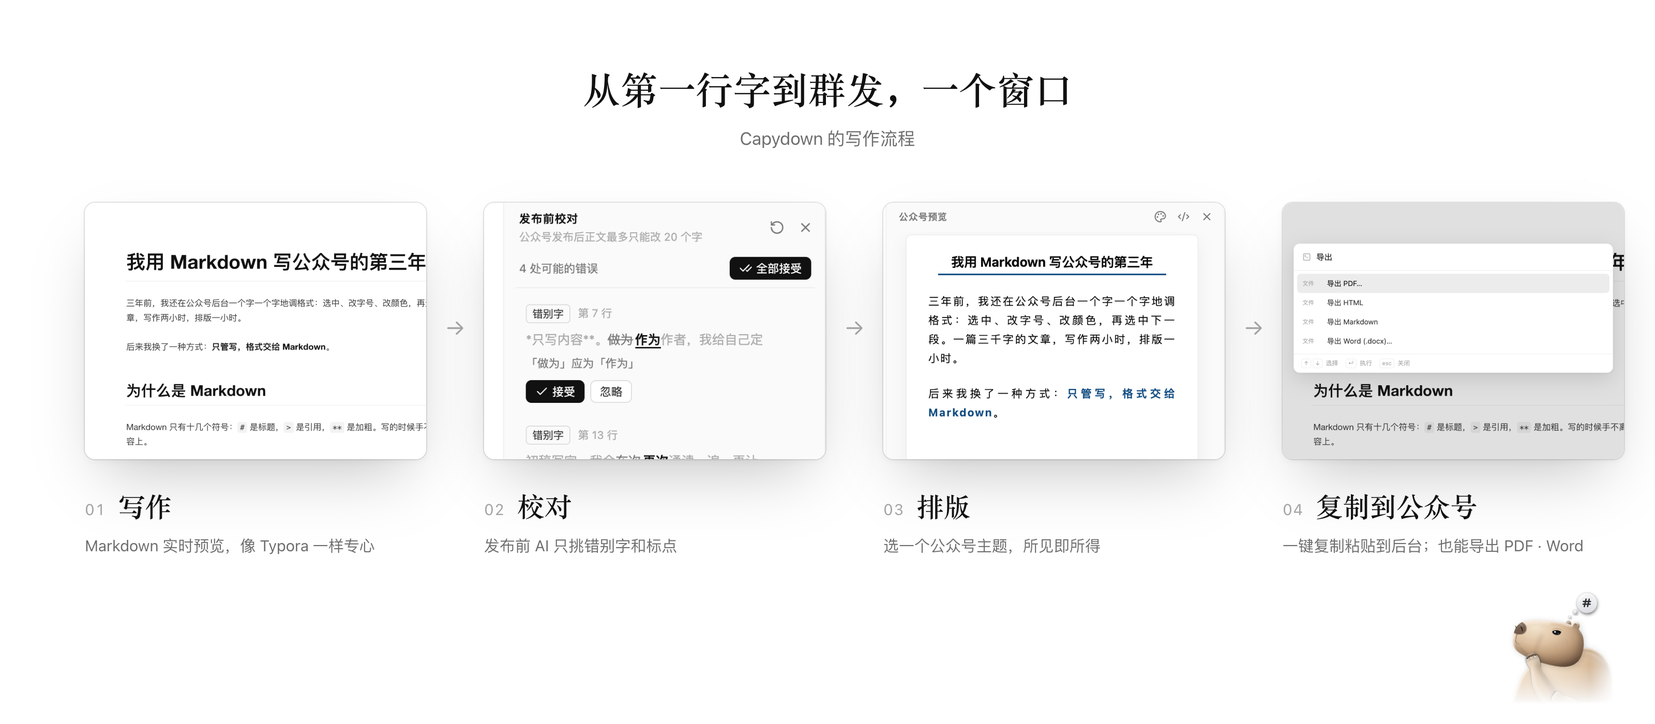
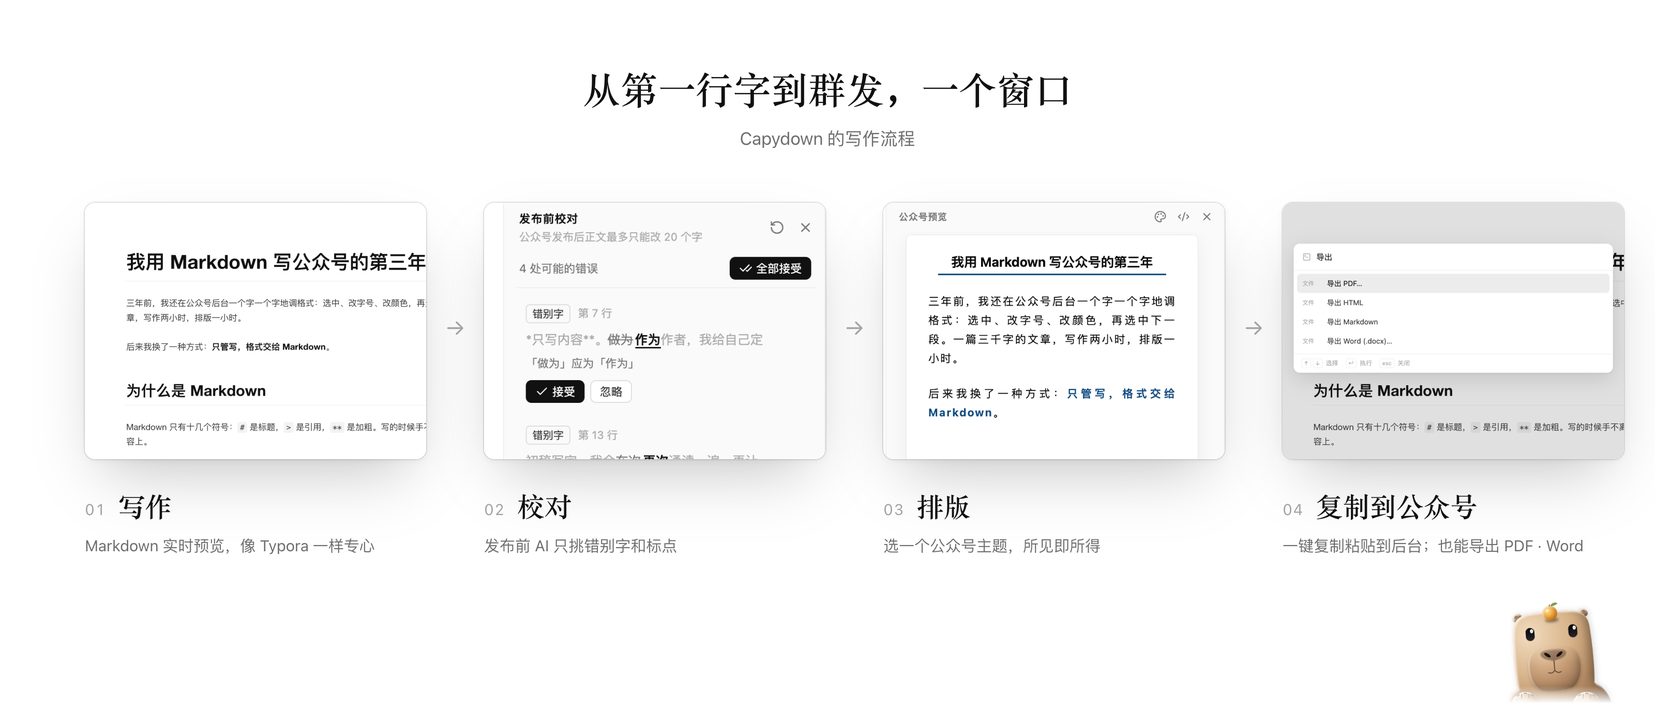
brand: splash, welcome, website and marketing use the front-facing capybara
The thought dots and # bubble belonged to the thinking pose; the splash and website hero
now let the new glyph settle, then the wordmark and tagline follow (same timing and
readiness logic). Marketing images re-rendered with the new mascot art.

Changed region(s): [[0.9062, 0.8293, 0.9688, 0.9829]]

diff --git a/src/renderer/index.html b/src/renderer/index.html
@@ -22,8 +22,8 @@
     </script>
     <style>
       /*
-       * 启动画面：卡皮巴拉标志落定 → 两个思考小点从头顶依次升起 → 第三个长成带 # 的小泡泡（它在想 Markdown）
-       * → Capydown 字标从左侧淡入 → 一句话介绍淡入 → 交叉淡出到应用。和图标同一个故事（托腮思考的卡皮巴拉，头顶的 # 泡泡）。
+       * 启动画面：卡皮巴拉标志（正面头像，和图标里从底边探出头的卡皮巴拉同一张脸）落定
+       * → Capydown 字标从左侧淡入 → 一句话介绍淡入 → 交叉淡出到应用。
        * 纯 CSS / SVG 动画，时间轴 1.0 s，退场 0.2 s；应用就绪得早就加速播完，就绪得晚就停在最后一帧（安静地等，不循环）。
        * 控制逻辑见本文件底部的脚本；渲染进程挂载完成后调用 window.__lbSplash.ready()（utils/boot.ts）。
        * 标志与字标是内联 SVG（logo-mark.svg / logo-wordmark.svg 的路径，只用 currentColor），不依赖字体加载。
@@ -59,18 +59,12 @@
         align-items: center;
         transform: translateY(-3vh); /* 视觉中心略高于几何中心 */
       }
-      /* 组合标志：[标志 56] [字标 34 高]，思考泡泡叠在标志右上方；坐标与思考泡泡 SVG 的 viewBox 一致（232 × 88）。
+      /* 组合标志：[标志 56] [字标 34 高]，232 × 88 网格（与欢迎页、官网首屏一致）。
        * 字标「Capydown」有降部（p y）：按大写字母的中线（字标盒子高度的 0.39）对齐标志墨迹的中线（y = 59.8） */
       .lb-splash-lockup { position: relative; width: 232px; height: 88px; }
       .lb-splash-lockup svg { position: absolute; display: block; overflow: visible; }
       .lb-splash-mark { left: 0; top: 32px; width: 56px; height: 56px; will-change: transform, opacity; }
-      .lb-splash-think { left: 0; top: 0; width: 232px; height: 88px; }
       .lb-splash-word { left: 66px; top: 46.6px; width: 164px; height: 34px; will-change: transform, opacity; }
-      .lb-sp-dot, .lb-sp-bubble circle { fill: var(--sp-soft); }
-      .lb-sp-bubble circle { fill: none; stroke: var(--sp-soft); stroke-width: 1.4; }
-      .lb-sp-hash { fill: none; stroke: var(--sp-fg); stroke-width: 1.5; stroke-linecap: round; }
-      .lb-sp-dot, .lb-sp-bubble { transform-box: fill-box; transform-origin: center; }
-      .lb-sp-bubble { transform-origin: 20% 85%; } /* 从靠近小点的左下角长出来 */
       .lb-splash-tag {
         margin: 18px 0 0;
         font: 400 13px/1.5 -apple-system, BlinkMacSystemFont, 'PingFang SC', 'Hiragino Sans GB', 'Noto Sans CJK SC', 'Microsoft YaHei', sans-serif;
@@ -79,35 +73,19 @@
       }
 
       /* 初始状态：脚本加上 .is-playing 之前什么都不显示（窗口可见后才开始播放） */
-      .lb-splash-mark, .lb-splash-word, .lb-splash-tag, .lb-sp-dot, .lb-sp-bubble, .lb-sp-hash { opacity: 0; }
+      .lb-splash-mark, .lb-splash-word, .lb-splash-tag { opacity: 0; }
 
       /* ---------------------------------------------------------------- 时间轴（ms）
        *    0–380  标志上浮落定（淡入 + 轻微放大）
-       *  300–440  第一个思考小点从头顶冒出
-       *  400–540  第二个小点，更大、更高
-       *  500–700  第三个长成泡泡；620–760 泡泡里浮现 #
        *  480–820  字标从左侧滑入
        *  780–1000 一句话介绍淡入
        */
       .is-playing .lb-splash-mark { animation: lb-sp-settle 380ms cubic-bezier(0.22, 1, 0.36, 1) both; }
-      .is-playing .lb-sp-dot1 { animation: lb-sp-pop 140ms cubic-bezier(0.34, 1.4, 0.64, 1) 300ms both; }
-      .is-playing .lb-sp-dot2 { animation: lb-sp-pop 140ms cubic-bezier(0.34, 1.4, 0.64, 1) 400ms both; }
-      .is-playing .lb-sp-bubble { animation: lb-sp-grow 200ms cubic-bezier(0.34, 1.3, 0.64, 1) 500ms both; }
-      .is-playing .lb-sp-hash { animation: lb-sp-fade 140ms ease-out 620ms both; }
       .is-playing .lb-splash-word { animation: lb-sp-word 340ms cubic-bezier(0.22, 1, 0.36, 1) 480ms both; }
       .is-playing .lb-splash-tag { animation: lb-sp-rise 220ms cubic-bezier(0.22, 1, 0.36, 1) 780ms both; }
 
       @keyframes lb-sp-settle {
         from { opacity: 0; transform: translateY(6px) scale(0.96); }
-        to { opacity: 1; transform: none; }
-      }
-      @keyframes lb-sp-pop {
-        from { opacity: 0; transform: translate(-2px, 3px) scale(0.2); }
-        to { opacity: 1; transform: none; }
-      }
-      @keyframes lb-sp-grow {
-        from { opacity: 0; transform: translate(-4px, 5px) scale(0.22); }
-        30% { opacity: 1; }
         to { opacity: 1; transform: none; }
       }
       @keyframes lb-sp-word {
@@ -128,10 +106,7 @@
       @media (prefers-reduced-motion: reduce) {
         .is-playing .lb-splash-mark,
         .is-playing .lb-splash-word,
-        .is-playing .lb-splash-tag,
-        .is-playing .lb-sp-dot,
-        .is-playing .lb-sp-bubble,
-        .is-playing .lb-sp-hash { animation: lb-sp-fade 160ms ease-out both; }
+        .is-playing .lb-splash-tag { animation: lb-sp-fade 160ms ease-out both; }
         .lb-splash.is-leaving .lb-splash-stage { transition: none; transform: translateY(-3vh); }
       }
     </style>
@@ -144,16 +119,7 @@
     <div id="lb-splash" class="lb-splash" aria-hidden="true">
       <div class="lb-splash-stage">
         <div class="lb-splash-lockup">
-          <svg class="lb-splash-mark" viewBox="0 0 24 24"><path fill="currentColor" fill-rule="evenodd" d="M 4.4 5.4 C 8 4.9 12 4.7 15.7 4.6 C 15.9 3.5 16.8 2.8 17.9 2.8 C 19.0 2.8 19.8 3.6 19.8 4.8 C 21.6 6.0 22.5 8.6 22.6 11.6 C 22.7 14.6 22.6 18.2 22.5 21 L 11.4 21 C 11.4 19.4 11.6 17.8 11.9 16.5 C 9.6 16.2 7.4 15.4 5.8 14.4 C 5.3 14.1 4.9 13.8 4.6 13.4 C 4.3 13.8 3.8 13.9 3.3 13.8 C 2.1 13.6 1.5 12.6 1.5 11.0 L 1.5 8.2 C 1.5 6.6 2.5 5.6 4.4 5.4 Z M 11.0 7.7 L 14.6 7.7 C 14.6 9.1 13.8 9.9 12.8 9.9 C 11.8 9.9 11.0 9.1 11.0 7.7 Z M 2.75 7.53 A 0.8 1.4 20 1 0 4.25 8.07 A 0.8 1.4 20 1 0 2.75 7.53 Z"/></svg>
-          <!-- 思考泡泡：两个小点从头顶升起，第三个长成带 # 的泡泡（坐标与 .lb-splash-lockup 一致，232 × 88） -->
-          <svg class="lb-splash-think" viewBox="0 0 232 88">
-            <circle class="lb-sp-dot lb-sp-dot1" cx="48.5" cy="32" r="1.6"/>
-            <circle class="lb-sp-dot lb-sp-dot2" cx="53.5" cy="24.5" r="2.3"/>
-            <g class="lb-sp-bubble">
-              <circle cx="63" cy="12" r="10"/>
-              <path class="lb-sp-hash" d="M 61.2 7.6 L 60.2 16.4 M 65.8 7.6 L 64.8 16.4 M 58.2 10.5 L 67.8 10.5 M 58 13.5 L 67.6 13.5"/>
-            </g>
-          </svg>
+          <svg class="lb-splash-mark" viewBox="0 0 24 24"><path fill="currentColor" fill-rule="evenodd" d="M 12 3.2 C 14.2 3.2 15.8 3.25 16.9 3.35 C 17.3 2.5 18.2 2.0 19.1 2.2 C 20.2 2.4 20.7 3.4 20.4 4.4 C 20.35 4.75 20.3 5.0 20.1 5.2 C 20.6 6.0 20.8 7.0 20.85 8.2 C 20.95 10.5 20.9 12.6 20.4 14.2 C 20.0 15.4 19.4 16.0 19.0 16.6 C 18.8 19.6 16.6 21.4 12 21.4 C 7.4 21.4 5.2 19.6 5.0 16.6 C 4.6 16.0 4.0 15.4 3.6 14.2 C 3.1 12.6 3.05 10.5 3.15 8.2 C 3.2 7.0 3.4 6.0 3.9 5.2 C 3.7 5.0 3.65 4.75 3.6 4.4 C 3.3 3.4 3.8 2.4 4.9 2.2 C 5.8 2.0 6.7 2.5 7.1 3.35 C 8.2 3.25 9.8 3.2 12 3.2 Z M 6.9 8.1 C 6.9 7.4 7.4 6.9 8.05 6.9 C 8.7 6.9 9.2 7.4 9.2 8.1 L 9.2 9.3 C 9.2 10.0 8.7 10.5 8.05 10.5 C 7.4 10.5 6.9 10.0 6.9 9.3 Z M 14.8 8.1 C 14.8 7.4 15.3 6.9 15.95 6.9 C 16.6 6.9 17.1 7.4 17.1 8.1 L 17.1 9.3 C 17.1 10.0 16.6 10.5 15.95 10.5 C 15.3 10.5 14.8 10.0 14.8 9.3 Z M 8.07 15.13 A 1.7 0.95 16 1 0 11.33 16.07 A 1.7 0.95 16 1 0 8.07 15.13 Z M 12.67 16.07 A 1.7 0.95 -16 1 0 15.93 15.13 A 1.7 0.95 -16 1 0 12.67 16.07 Z"/></svg>
           <svg class="lb-splash-word" viewBox="0 0 979.84 203"><path fill="currentColor" transform="translate(-2 151)" d="M75.28 3Q53.69 3 38.17 -6.42Q22.65 -15.84 14.33 -32.74Q6 -49.64 6 -72Q6 -94.36 14.33 -111.26Q22.65 -128.16 38.17 -137.58Q53.69 -147 75.28 -147Q100.12 -147 116.83 -134.62Q133.53 -122.23 140.28 -101.14L114.74 -94.1Q110.66 -107.8 100.79 -115.46Q90.93 -123.12 75.28 -123.12Q61.1 -123.12 51.64 -116.78Q42.18 -110.44 37.42 -98.94Q32.66 -87.45 32.64 -72Q32.62 -56.55 37.38 -45.06Q42.14 -33.57 51.62 -27.23Q61.1 -20.88 75.28 -20.88Q90.93 -20.88 100.79 -28.59Q110.66 -36.3 114.74 -49.9L140.28 -42.86Q133.53 -21.77 116.83 -9.38Q100.12 3 75.28 3ZM186.44 3Q174.74 3 166.66 -1.45Q158.59 -5.89 154.45 -13.32Q150.3 -20.74 150.3 -29.68Q150.3 -37.38 152.78 -43.58Q155.27 -49.79 160.57 -54.43Q165.88 -59.06 174.48 -62.1Q180.82 -64.27 189.36 -65.95Q197.91 -67.62 208.27 -69.12Q218.63 -70.61 230.42 -72.38L221.3 -67.32Q221.35 -77.87 216.46 -82.85Q211.58 -87.84 199.98 -87.84Q193.22 -87.84 186.55 -84.62Q179.87 -81.41 177.2 -73.5L154.14 -80.76Q158.19 -94.32 169.48 -102.66Q180.76 -111 200.02 -111Q214.39 -111 225.38 -106.43Q236.37 -101.86 241.86 -91.1Q244.88 -85.3 245.48 -79.33Q246.08 -73.36 246.08 -66.16V0H223.88V-22.94L227.34 -18.78Q219.8 -7.43 210.28 -2.21Q200.77 3 186.44 3ZM191.62 -17.1Q199.54 -17.1 205.07 -19.91Q210.6 -22.71 213.9 -26.57Q217.2 -30.42 218.34 -33.6Q220.31 -38.12 220.62 -44.02Q220.94 -49.93 220.94 -53.72L228.58 -51.58Q217.16 -49.73 209.47 -48.43Q201.79 -47.13 196.61 -46Q191.43 -44.88 187.44 -43.5Q183.35 -41.94 180.63 -40.01Q177.9 -38.09 176.51 -35.64Q175.12 -33.19 175.12 -30.02Q175.12 -26.17 177.05 -23.26Q178.97 -20.34 182.65 -18.72Q186.32 -17.1 191.62 -17.1ZM318.82 3Q302.9 3 292.18 -4.51Q281.46 -12.02 276.03 -24.92Q270.6 -37.83 270.6 -54.02Q270.6 -70.24 275.99 -83.13Q281.38 -96.03 291.87 -103.51Q302.35 -111 317.72 -111Q333.12 -111 344.49 -103.59Q355.85 -96.17 362.1 -83.32Q368.34 -70.46 368.34 -54.02Q368.34 -37.82 362.18 -24.91Q356.01 -12.01 344.89 -4.5Q333.76 3 318.82 3ZM266.32 48V-108H288.7V-32.9H291.82V48ZM314.86 -19.62Q324.03 -19.62 329.91 -24.22Q335.8 -28.82 338.66 -36.63Q341.52 -44.44 341.52 -54.02Q341.52 -63.5 338.58 -71.3Q335.65 -79.1 329.54 -83.74Q323.44 -88.38 313.96 -88.38Q305.05 -88.38 299.47 -84.07Q293.89 -79.76 291.3 -72Q288.7 -64.25 288.7 -54.02Q288.7 -43.81 291.29 -36.05Q293.88 -28.28 299.64 -23.95Q305.4 -19.62 314.86 -19.62ZM397.14 48 417.96 -9.12 418.34 7.68 371.3 -108H397.6L430.28 -23.9H423.88L455.94 -108H481.32L420.76 48ZM532.92 3Q517.98 3 506.86 -4.5Q495.73 -12.01 489.57 -24.91Q483.4 -37.82 483.4 -54.02Q483.4 -70.46 489.65 -83.32Q495.89 -96.17 507.26 -103.59Q518.62 -111 534.02 -111Q549.39 -111 559.88 -103.51Q570.36 -96.03 575.75 -83.13Q581.14 -70.24 581.14 -54.02Q581.14 -37.83 575.71 -24.92Q570.28 -12.02 559.56 -4.51Q548.84 3 532.92 3ZM536.88 -19.62Q546.34 -19.62 552.1 -23.95Q557.86 -28.28 560.45 -36.05Q563.04 -43.81 563.04 -54.02Q563.04 -64.25 560.44 -72Q557.85 -79.76 552.27 -84.07Q546.69 -88.38 537.78 -88.38Q528.3 -88.38 522.19 -83.74Q516.08 -79.1 513.15 -71.3Q510.22 -63.5 510.22 -54.02Q510.22 -44.44 513.08 -36.63Q515.94 -28.82 521.83 -24.22Q527.71 -19.62 536.88 -19.62ZM563.04 0V-75.1H559.92V-144H585.42V0ZM655.48 3Q639.21 3 627.04 -4.3Q614.87 -11.6 608.14 -24.45Q601.4 -37.31 601.4 -54.02Q601.4 -70.93 608.28 -83.77Q615.16 -96.62 627.34 -103.81Q639.51 -111 655.48 -111Q671.76 -111 683.98 -103.7Q696.19 -96.41 702.97 -83.56Q709.74 -70.72 709.74 -54.02Q709.74 -37.19 702.92 -24.34Q696.09 -11.49 683.87 -4.25Q671.65 3 655.48 3ZM655.48 -20.7Q669.31 -20.7 676.11 -30.02Q682.92 -39.34 682.92 -54.02Q682.92 -69.19 676.02 -78.24Q669.12 -87.3 655.48 -87.3Q646.1 -87.3 640.08 -83.08Q634.05 -78.86 631.14 -71.38Q628.22 -63.9 628.22 -54.02Q628.22 -38.77 635.14 -29.74Q642.06 -20.7 655.48 -20.7ZM746.7 0 713.7 -108.18 738.52 -108 759.02 -40.68 779.79 -108H801.01L821.78 -40.68L842.3 -108H867.1L834.1 0H814.5L790.4 -72.74L766.3 0ZM952.16 0V-51.62Q952.16 -56.11 951.56 -62.13Q950.97 -68.15 948.62 -73.92Q946.27 -79.7 941.34 -83.48Q936.41 -87.26 927.74 -87.26Q923.6 -87.26 919.31 -85.92Q915.01 -84.59 911.43 -81.15Q907.85 -77.72 905.63 -71.45Q903.4 -65.18 903.4 -55.22L888.58 -61.86Q888.58 -75.23 893.87 -86.44Q899.16 -97.66 909.57 -104.39Q919.98 -111.12 935.48 -111.12Q947.73 -111.12 955.62 -107.02Q963.5 -102.92 968.04 -96.54Q972.58 -90.17 974.66 -83.1Q976.74 -76.04 977.29 -69.92Q977.84 -63.81 977.84 -60.42V0ZM877.72 0V-108H900.28V-73.58H903.4V0Z"/></svg>
         </div>
         <p class="lb-splash-tag">像 Typora 一样专心写，一键排成公众号</p>

diff --git a/website/en/index.html b/website/en/index.html
@@ -57,10 +57,9 @@
   <section class="hero anim">
     <div class="wrap">
       <h1 class="sr-only">Capydown</h1>
-      <!-- logo: the capybara glyph thinks a # bubble, then the Capydown wordmark slides in (same as the app's splash; 232 × 88 grid) -->
+      <!-- logo: the capybara glyph settles, then the Capydown wordmark slides in (same as the app's splash; 232 × 88 grid) -->
       <div class="hero-lockup" aria-hidden="true">
-        <svg class="hl-mark" viewBox="0 0 24 24"><path fill="currentColor" fill-rule="evenodd" d="M 4.4 5.4 C 8 4.9 12 4.7 15.7 4.6 C 15.9 3.5 16.8 2.8 17.9 2.8 C 19.0 2.8 19.8 3.6 19.8 4.8 C 21.6 6.0 22.5 8.6 22.6 11.6 C 22.7 14.6 22.6 18.2 22.5 21 L 11.4 21 C 11.4 19.4 11.6 17.8 11.9 16.5 C 9.6 16.2 7.4 15.4 5.8 14.4 C 5.3 14.1 4.9 13.8 4.6 13.4 C 4.3 13.8 3.8 13.9 3.3 13.8 C 2.1 13.6 1.5 12.6 1.5 11.0 L 1.5 8.2 C 1.5 6.6 2.5 5.6 4.4 5.4 Z M 11.0 7.7 L 14.6 7.7 C 14.6 9.1 13.8 9.9 12.8 9.9 C 11.8 9.9 11.0 9.1 11.0 7.7 Z M 2.75 7.53 A 0.8 1.4 20 1 0 4.25 8.07 A 0.8 1.4 20 1 0 2.75 7.53 Z"/></svg>
-        <svg class="hl-think" viewBox="0 0 232 88"><circle class="hl-dot hl-dot1" cx="48.5" cy="32" r="1.6"/><circle class="hl-dot hl-dot2" cx="53.5" cy="24.5" r="2.3"/><g class="hl-bubble"><circle cx="63" cy="12" r="10"/><path class="hl-hash" d="M 61.2 7.6 L 60.2 16.4 M 65.8 7.6 L 64.8 16.4 M 58.2 10.5 L 67.8 10.5 M 58 13.5 L 67.6 13.5"/></g></svg>
+        <svg class="hl-mark" viewBox="0 0 24 24"><path fill="currentColor" fill-rule="evenodd" d="M 12 3.2 C 14.2 3.2 15.8 3.25 16.9 3.35 C 17.3 2.5 18.2 2.0 19.1 2.2 C 20.2 2.4 20.7 3.4 20.4 4.4 C 20.35 4.75 20.3 5.0 20.1 5.2 C 20.6 6.0 20.8 7.0 20.85 8.2 C 20.95 10.5 20.9 12.6 20.4 14.2 C 20.0 15.4 19.4 16.0 19.0 16.6 C 18.8 19.6 16.6 21.4 12 21.4 C 7.4 21.4 5.2 19.6 5.0 16.6 C 4.6 16.0 4.0 15.4 3.6 14.2 C 3.1 12.6 3.05 10.5 3.15 8.2 C 3.2 7.0 3.4 6.0 3.9 5.2 C 3.7 5.0 3.65 4.75 3.6 4.4 C 3.3 3.4 3.8 2.4 4.9 2.2 C 5.8 2.0 6.7 2.5 7.1 3.35 C 8.2 3.25 9.8 3.2 12 3.2 Z M 6.9 8.1 C 6.9 7.4 7.4 6.9 8.05 6.9 C 8.7 6.9 9.2 7.4 9.2 8.1 L 9.2 9.3 C 9.2 10.0 8.7 10.5 8.05 10.5 C 7.4 10.5 6.9 10.0 6.9 9.3 Z M 14.8 8.1 C 14.8 7.4 15.3 6.9 15.95 6.9 C 16.6 6.9 17.1 7.4 17.1 8.1 L 17.1 9.3 C 17.1 10.0 16.6 10.5 15.95 10.5 C 15.3 10.5 14.8 10.0 14.8 9.3 Z M 8.07 15.13 A 1.7 0.95 16 1 0 11.33 16.07 A 1.7 0.95 16 1 0 8.07 15.13 Z M 12.67 16.07 A 1.7 0.95 -16 1 0 15.93 15.13 A 1.7 0.95 -16 1 0 12.67 16.07 Z"/></svg>
         <svg class="hl-word" viewBox="0 0 979.84 203"><path fill="currentColor" transform="translate(-2 151)" d="M75.28 3Q53.69 3 38.17 -6.42Q22.65 -15.84 14.33 -32.74Q6 -49.64 6 -72Q6 -94.36 14.33 -111.26Q22.65 -128.16 38.17 -137.58Q53.69 -147 75.28 -147Q100.12 -147 116.83 -134.62Q133.53 -122.23 140.28 -101.14L114.74 -94.1Q110.66 -107.8 100.79 -115.46Q90.93 -123.12 75.28 -123.12Q61.1 -123.12 51.64 -116.78Q42.18 -110.44 37.42 -98.94Q32.66 -87.45 32.64 -72Q32.62 -56.55 37.38 -45.06Q42.14 -33.57 51.62 -27.23Q61.1 -20.88 75.28 -20.88Q90.93 -20.88 100.79 -28.59Q110.66 -36.3 114.74 -49.9L140.28 -42.86Q133.53 -21.77 116.83 -9.38Q100.12 3 75.28 3ZM186.44 3Q174.74 3 166.66 -1.45Q158.59 -5.89 154.45 -13.32Q150.3 -20.74 150.3 -29.68Q150.3 -37.38 152.78 -43.58Q155.27 -49.79 160.57 -54.43Q165.88 -59.06 174.48 -62.1Q180.82 -64.27 189.36 -65.95Q197.91 -67.62 208.27 -69.12Q218.63 -70.61 230.42 -72.38L221.3 -67.32Q221.35 -77.87 216.46 -82.85Q211.58 -87.84 199.98 -87.84Q193.22 -87.84 186.55 -84.62Q179.87 -81.41 177.2 -73.5L154.14 -80.76Q158.19 -94.32 169.48 -102.66Q180.76 -111 200.02 -111Q214.39 -111 225.38 -106.43Q236.37 -101.86 241.86 -91.1Q244.88 -85.3 245.48 -79.33Q246.08 -73.36 246.08 -66.16V0H223.88V-22.94L227.34 -18.78Q219.8 -7.43 210.28 -2.21Q200.77 3 186.44 3ZM191.62 -17.1Q199.54 -17.1 205.07 -19.91Q210.6 -22.71 213.9 -26.57Q217.2 -30.42 218.34 -33.6Q220.31 -38.12 220.62 -44.02Q220.94 -49.93 220.94 -53.72L228.58 -51.58Q217.16 -49.73 209.47 -48.43Q201.79 -47.13 196.61 -46Q191.43 -44.88 187.44 -43.5Q183.35 -41.94 180.63 -40.01Q177.9 -38.09 176.51 -35.64Q175.12 -33.19 175.12 -30.02Q175.12 -26.17 177.05 -23.26Q178.97 -20.34 182.65 -18.72Q186.32 -17.1 191.62 -17.1ZM318.82 3Q302.9 3 292.18 -4.51Q281.46 -12.02 276.03 -24.92Q270.6 -37.83 270.6 -54.02Q270.6 -70.24 275.99 -83.13Q281.38 -96.03 291.87 -103.51Q302.35 -111 317.72 -111Q333.12 -111 344.49 -103.59Q355.85 -96.17 362.1 -83.32Q368.34 -70.46 368.34 -54.02Q368.34 -37.82 362.18 -24.91Q356.01 -12.01 344.89 -4.5Q333.76 3 318.82 3ZM266.32 48V-108H288.7V-32.9H291.82V48ZM314.86 -19.62Q324.03 -19.62 329.91 -24.22Q335.8 -28.82 338.66 -36.63Q341.52 -44.44 341.52 -54.02Q341.52 -63.5 338.58 -71.3Q335.65 -79.1 329.54 -83.74Q323.44 -88.38 313.96 -88.38Q305.05 -88.38 299.47 -84.07Q293.89 -79.76 291.3 -72Q288.7 -64.25 288.7 -54.02Q288.7 -43.81 291.29 -36.05Q293.88 -28.28 299.64 -23.95Q305.4 -19.62 314.86 -19.62ZM397.14 48 417.96 -9.12 418.34 7.68 371.3 -108H397.6L430.28 -23.9H423.88L455.94 -108H481.32L420.76 48ZM532.92 3Q517.98 3 506.86 -4.5Q495.73 -12.01 489.57 -24.91Q483.4 -37.82 483.4 -54.02Q483.4 -70.46 489.65 -83.32Q495.89 -96.17 507.26 -103.59Q518.62 -111 534.02 -111Q549.39 -111 559.88 -103.51Q570.36 -96.03 575.75 -83.13Q581.14 -70.24 581.14 -54.02Q581.14 -37.83 575.71 -24.92Q570.28 -12.02 559.56 -4.51Q548.84 3 532.92 3ZM536.88 -19.62Q546.34 -19.62 552.1 -23.95Q557.86 -28.28 560.45 -36.05Q563.04 -43.81 563.04 -54.02Q563.04 -64.25 560.44 -72Q557.85 -79.76 552.27 -84.07Q546.69 -88.38 537.78 -88.38Q528.3 -88.38 522.19 -83.74Q516.08 -79.1 513.15 -71.3Q510.22 -63.5 510.22 -54.02Q510.22 -44.44 513.08 -36.63Q515.94 -28.82 521.83 -24.22Q527.71 -19.62 536.88 -19.62ZM563.04 0V-75.1H559.92V-144H585.42V0ZM655.48 3Q639.21 3 627.04 -4.3Q614.87 -11.6 608.14 -24.45Q601.4 -37.31 601.4 -54.02Q601.4 -70.93 608.28 -83.77Q615.16 -96.62 627.34 -103.81Q639.51 -111 655.48 -111Q671.76 -111 683.98 -103.7Q696.19 -96.41 702.97 -83.56Q709.74 -70.72 709.74 -54.02Q709.74 -37.19 702.92 -24.34Q696.09 -11.49 683.87 -4.25Q671.65 3 655.48 3ZM655.48 -20.7Q669.31 -20.7 676.11 -30.02Q682.92 -39.34 682.92 -54.02Q682.92 -69.19 676.02 -78.24Q669.12 -87.3 655.48 -87.3Q646.1 -87.3 640.08 -83.08Q634.05 -78.86 631.14 -71.38Q628.22 -63.9 628.22 -54.02Q628.22 -38.77 635.14 -29.74Q642.06 -20.7 655.48 -20.7ZM746.7 0 713.7 -108.18 738.52 -108 759.02 -40.68 779.79 -108H801.01L821.78 -40.68L842.3 -108H867.1L834.1 0H814.5L790.4 -72.74L766.3 0ZM952.16 0V-51.62Q952.16 -56.11 951.56 -62.13Q950.97 -68.15 948.62 -73.92Q946.27 -79.7 941.34 -83.48Q936.41 -87.26 927.74 -87.26Q923.6 -87.26 919.31 -85.92Q915.01 -84.59 911.43 -81.15Q907.85 -77.72 905.63 -71.45Q903.4 -65.18 903.4 -55.22L888.58 -61.86Q888.58 -75.23 893.87 -86.44Q899.16 -97.66 909.57 -104.39Q919.98 -111.12 935.48 -111.12Q947.73 -111.12 955.62 -107.02Q963.5 -102.92 968.04 -96.54Q972.58 -90.17 974.66 -83.1Q976.74 -76.04 977.29 -69.92Q977.84 -63.81 977.84 -60.42V0ZM877.72 0V-108H900.28V-73.58H903.4V0Z"/></svg>
       </div>
       <p class="hero-slogan">Stay calm and write. Capydown does the formatting.</p>
@@ -78,7 +77,7 @@
       </div>
       <p class="hero-note"><span>Free &amp; open source · macOS / Windows / Linux</span><span>Formerly LazyBox / Slothdown</span></p>
       <div class="hero-stage">
-        <img class="peek" src="../assets/capybara.svg" alt="" width="794" height="800">
+        <img class="peek" src="../assets/capybara.svg" alt="" width="844" height="790">
         <div class="hero-shot win">
           <img src="../assets/01-writing.webp" srcset="../assets/01-writing-1000.webp 1000w, ../assets/01-writing.webp 2000w" sizes="(max-width: 1168px) calc(100vw - 48px), 1120px" width="2000" height="1250" alt="Capydown writing view with live preview and the file tree" fetchpriority="high">
         </div>
@@ -319,7 +318,7 @@
 
   <!-- ============================================================ closing -->
   <section class="closing">
-    <img class="closing-peek" src="../assets/capybara.svg" alt="" width="794" height="800" loading="lazy">
+    <img class="closing-peek" src="../assets/capybara.svg" alt="" width="844" height="790" loading="lazy">
     <div class="wrap reveal">
       <h2 class="serif">Start writing.</h2>
       <p>Stay calm — Capydown does the formatting.</p>

diff --git a/website/index.html b/website/index.html
@@ -57,10 +57,9 @@
   <section class="hero anim">
     <div class="wrap">
       <h1 class="sr-only">Capydown</h1>
-      <!-- logo: the capybara glyph thinks a # bubble, then the Capydown wordmark slides in (same as the app's splash; 232 × 88 grid) -->
+      <!-- logo: the capybara glyph settles, then the Capydown wordmark slides in (same as the app's splash; 232 × 88 grid) -->
       <div class="hero-lockup" aria-hidden="true">
-        <svg class="hl-mark" viewBox="0 0 24 24"><path fill="currentColor" fill-rule="evenodd" d="M 4.4 5.4 C 8 4.9 12 4.7 15.7 4.6 C 15.9 3.5 16.8 2.8 17.9 2.8 C 19.0 2.8 19.8 3.6 19.8 4.8 C 21.6 6.0 22.5 8.6 22.6 11.6 C 22.7 14.6 22.6 18.2 22.5 21 L 11.4 21 C 11.4 19.4 11.6 17.8 11.9 16.5 C 9.6 16.2 7.4 15.4 5.8 14.4 C 5.3 14.1 4.9 13.8 4.6 13.4 C 4.3 13.8 3.8 13.9 3.3 13.8 C 2.1 13.6 1.5 12.6 1.5 11.0 L 1.5 8.2 C 1.5 6.6 2.5 5.6 4.4 5.4 Z M 11.0 7.7 L 14.6 7.7 C 14.6 9.1 13.8 9.9 12.8 9.9 C 11.8 9.9 11.0 9.1 11.0 7.7 Z M 2.75 7.53 A 0.8 1.4 20 1 0 4.25 8.07 A 0.8 1.4 20 1 0 2.75 7.53 Z"/></svg>
-        <svg class="hl-think" viewBox="0 0 232 88"><circle class="hl-dot hl-dot1" cx="48.5" cy="32" r="1.6"/><circle class="hl-dot hl-dot2" cx="53.5" cy="24.5" r="2.3"/><g class="hl-bubble"><circle cx="63" cy="12" r="10"/><path class="hl-hash" d="M 61.2 7.6 L 60.2 16.4 M 65.8 7.6 L 64.8 16.4 M 58.2 10.5 L 67.8 10.5 M 58 13.5 L 67.6 13.5"/></g></svg>
+        <svg class="hl-mark" viewBox="0 0 24 24"><path fill="currentColor" fill-rule="evenodd" d="M 12 3.2 C 14.2 3.2 15.8 3.25 16.9 3.35 C 17.3 2.5 18.2 2.0 19.1 2.2 C 20.2 2.4 20.7 3.4 20.4 4.4 C 20.35 4.75 20.3 5.0 20.1 5.2 C 20.6 6.0 20.8 7.0 20.85 8.2 C 20.95 10.5 20.9 12.6 20.4 14.2 C 20.0 15.4 19.4 16.0 19.0 16.6 C 18.8 19.6 16.6 21.4 12 21.4 C 7.4 21.4 5.2 19.6 5.0 16.6 C 4.6 16.0 4.0 15.4 3.6 14.2 C 3.1 12.6 3.05 10.5 3.15 8.2 C 3.2 7.0 3.4 6.0 3.9 5.2 C 3.7 5.0 3.65 4.75 3.6 4.4 C 3.3 3.4 3.8 2.4 4.9 2.2 C 5.8 2.0 6.7 2.5 7.1 3.35 C 8.2 3.25 9.8 3.2 12 3.2 Z M 6.9 8.1 C 6.9 7.4 7.4 6.9 8.05 6.9 C 8.7 6.9 9.2 7.4 9.2 8.1 L 9.2 9.3 C 9.2 10.0 8.7 10.5 8.05 10.5 C 7.4 10.5 6.9 10.0 6.9 9.3 Z M 14.8 8.1 C 14.8 7.4 15.3 6.9 15.95 6.9 C 16.6 6.9 17.1 7.4 17.1 8.1 L 17.1 9.3 C 17.1 10.0 16.6 10.5 15.95 10.5 C 15.3 10.5 14.8 10.0 14.8 9.3 Z M 8.07 15.13 A 1.7 0.95 16 1 0 11.33 16.07 A 1.7 0.95 16 1 0 8.07 15.13 Z M 12.67 16.07 A 1.7 0.95 -16 1 0 15.93 15.13 A 1.7 0.95 -16 1 0 12.67 16.07 Z"/></svg>
         <svg class="hl-word" viewBox="0 0 979.84 203"><path fill="currentColor" transform="translate(-2 151)" d="M75.28 3Q53.69 3 38.17 -6.42Q22.65 -15.84 14.33 -32.74Q6 -49.64 6 -72Q6 -94.36 14.33 -111.26Q22.65 -128.16 38.17 -137.58Q53.69 -147 75.28 -147Q100.12 -147 116.83 -134.62Q133.53 -122.23 140.28 -101.14L114.74 -94.1Q110.66 -107.8 100.79 -115.46Q90.93 -123.12 75.28 -123.12Q61.1 -123.12 51.64 -116.78Q42.18 -110.44 37.42 -98.94Q32.66 -87.45 32.64 -72Q32.62 -56.55 37.38 -45.06Q42.14 -33.57 51.62 -27.23Q61.1 -20.88 75.28 -20.88Q90.93 -20.88 100.79 -28.59Q110.66 -36.3 114.74 -49.9L140.28 -42.86Q133.53 -21.77 116.83 -9.38Q100.12 3 75.28 3ZM186.44 3Q174.74 3 166.66 -1.45Q158.59 -5.89 154.45 -13.32Q150.3 -20.74 150.3 -29.68Q150.3 -37.38 152.78 -43.58Q155.27 -49.79 160.57 -54.43Q165.88 -59.06 174.48 -62.1Q180.82 -64.27 189.36 -65.95Q197.91 -67.62 208.27 -69.12Q218.63 -70.61 230.42 -72.38L221.3 -67.32Q221.35 -77.87 216.46 -82.85Q211.58 -87.84 199.98 -87.84Q193.22 -87.84 186.55 -84.62Q179.87 -81.41 177.2 -73.5L154.14 -80.76Q158.19 -94.32 169.48 -102.66Q180.76 -111 200.02 -111Q214.39 -111 225.38 -106.43Q236.37 -101.86 241.86 -91.1Q244.88 -85.3 245.48 -79.33Q246.08 -73.36 246.08 -66.16V0H223.88V-22.94L227.34 -18.78Q219.8 -7.43 210.28 -2.21Q200.77 3 186.44 3ZM191.62 -17.1Q199.54 -17.1 205.07 -19.91Q210.6 -22.71 213.9 -26.57Q217.2 -30.42 218.34 -33.6Q220.31 -38.12 220.62 -44.02Q220.94 -49.93 220.94 -53.72L228.58 -51.58Q217.16 -49.73 209.47 -48.43Q201.79 -47.13 196.61 -46Q191.43 -44.88 187.44 -43.5Q183.35 -41.94 180.63 -40.01Q177.9 -38.09 176.51 -35.64Q175.12 -33.19 175.12 -30.02Q175.12 -26.17 177.05 -23.26Q178.97 -20.34 182.65 -18.72Q186.32 -17.1 191.62 -17.1ZM318.82 3Q302.9 3 292.18 -4.51Q281.46 -12.02 276.03 -24.92Q270.6 -37.83 270.6 -54.02Q270.6 -70.24 275.99 -83.13Q281.38 -96.03 291.87 -103.51Q302.35 -111 317.72 -111Q333.12 -111 344.49 -103.59Q355.85 -96.17 362.1 -83.32Q368.34 -70.46 368.34 -54.02Q368.34 -37.82 362.18 -24.91Q356.01 -12.01 344.89 -4.5Q333.76 3 318.82 3ZM266.32 48V-108H288.7V-32.9H291.82V48ZM314.86 -19.62Q324.03 -19.62 329.91 -24.22Q335.8 -28.82 338.66 -36.63Q341.52 -44.44 341.52 -54.02Q341.52 -63.5 338.58 -71.3Q335.65 -79.1 329.54 -83.74Q323.44 -88.38 313.96 -88.38Q305.05 -88.38 299.47 -84.07Q293.89 -79.76 291.3 -72Q288.7 -64.25 288.7 -54.02Q288.7 -43.81 291.29 -36.05Q293.88 -28.28 299.64 -23.95Q305.4 -19.62 314.86 -19.62ZM397.14 48 417.96 -9.12 418.34 7.68 371.3 -108H397.6L430.28 -23.9H423.88L455.94 -108H481.32L420.76 48ZM532.92 3Q517.98 3 506.86 -4.5Q495.73 -12.01 489.57 -24.91Q483.4 -37.82 483.4 -54.02Q483.4 -70.46 489.65 -83.32Q495.89 -96.17 507.26 -103.59Q518.62 -111 534.02 -111Q549.39 -111 559.88 -103.51Q570.36 -96.03 575.75 -83.13Q581.14 -70.24 581.14 -54.02Q581.14 -37.83 575.71 -24.92Q570.28 -12.02 559.56 -4.51Q548.84 3 532.92 3ZM536.88 -19.62Q546.34 -19.62 552.1 -23.95Q557.86 -28.28 560.45 -36.05Q563.04 -43.81 563.04 -54.02Q563.04 -64.25 560.44 -72Q557.85 -79.76 552.27 -84.07Q546.69 -88.38 537.78 -88.38Q528.3 -88.38 522.19 -83.74Q516.08 -79.1 513.15 -71.3Q510.22 -63.5 510.22 -54.02Q510.22 -44.44 513.08 -36.63Q515.94 -28.82 521.83 -24.22Q527.71 -19.62 536.88 -19.62ZM563.04 0V-75.1H559.92V-144H585.42V0ZM655.48 3Q639.21 3 627.04 -4.3Q614.87 -11.6 608.14 -24.45Q601.4 -37.31 601.4 -54.02Q601.4 -70.93 608.28 -83.77Q615.16 -96.62 627.34 -103.81Q639.51 -111 655.48 -111Q671.76 -111 683.98 -103.7Q696.19 -96.41 702.97 -83.56Q709.74 -70.72 709.74 -54.02Q709.74 -37.19 702.92 -24.34Q696.09 -11.49 683.87 -4.25Q671.65 3 655.48 3ZM655.48 -20.7Q669.31 -20.7 676.11 -30.02Q682.92 -39.34 682.92 -54.02Q682.92 -69.19 676.02 -78.24Q669.12 -87.3 655.48 -87.3Q646.1 -87.3 640.08 -83.08Q634.05 -78.86 631.14 -71.38Q628.22 -63.9 628.22 -54.02Q628.22 -38.77 635.14 -29.74Q642.06 -20.7 655.48 -20.7ZM746.7 0 713.7 -108.18 738.52 -108 759.02 -40.68 779.79 -108H801.01L821.78 -40.68L842.3 -108H867.1L834.1 0H814.5L790.4 -72.74L766.3 0ZM952.16 0V-51.62Q952.16 -56.11 951.56 -62.13Q950.97 -68.15 948.62 -73.92Q946.27 -79.7 941.34 -83.48Q936.41 -87.26 927.74 -87.26Q923.6 -87.26 919.31 -85.92Q915.01 -84.59 911.43 -81.15Q907.85 -77.72 905.63 -71.45Q903.4 -65.18 903.4 -55.22L888.58 -61.86Q888.58 -75.23 893.87 -86.44Q899.16 -97.66 909.57 -104.39Q919.98 -111.12 935.48 -111.12Q947.73 -111.12 955.62 -107.02Q963.5 -102.92 968.04 -96.54Q972.58 -90.17 974.66 -83.1Q976.74 -76.04 977.29 -69.92Q977.84 -63.81 977.84 -60.42V0ZM877.72 0V-108H900.28V-73.58H903.4V0Z"/></svg>
       </div>
       <p class="hero-slogan">淡定地写，排版交给卡皮巴拉。</p>
@@ -78,7 +77,7 @@
       </div>
       <p class="hero-note"><span>免费开源 · macOS / Windows / Linux</span><span>原名 LazyBox / Slothdown</span></p>
       <div class="hero-stage">
-        <img class="peek" src="assets/capybara.svg" alt="" width="794" height="800">
+        <img class="peek" src="assets/capybara.svg" alt="" width="844" height="790">
         <div class="hero-shot win">
           <img src="assets/01-writing.webp" srcset="assets/01-writing-1000.webp 1000w, assets/01-writing.webp 2000w" sizes="(max-width: 1168px) calc(100vw - 48px), 1120px" width="2000" height="1250" alt="Capydown 的写作界面：单栏实时预览，左侧是文件树" fetchpriority="high">
         </div>
@@ -319,7 +318,7 @@
 
   <!-- ============================================================ closing -->
   <section class="closing">
-    <img class="closing-peek" src="assets/capybara.svg" alt="" width="794" height="800" loading="lazy">
+    <img class="closing-peek" src="assets/capybara.svg" alt="" width="844" height="790" loading="lazy">
     <div class="wrap reveal">
       <h2 class="serif">开始写吧。</h2>
       <p>剩下的，交给卡皮巴拉。</p>

diff --git a/website/style.css b/website/style.css
@@ -78,34 +78,24 @@ h1, h2, h3 { margin: 0; font-weight: 700; }
 
 /* ------------------------------------------------------------------ hero */
 .hero { padding: 112px 0 0; text-align: center; }
-/* logo lockup: [capybara glyph] Capydown, with thought dots rising into a # bubble (same 232 × 88 grid as the app's splash) */
+/* logo lockup: [capybara glyph] Capydown (same 232 × 88 grid as the app's splash) */
 .hero-lockup { position: relative; width: min(520px, 84vw); aspect-ratio: 232 / 88; margin: 0 auto; color: var(--ink); }
 .hero-lockup svg { position: absolute; display: block; overflow: visible; }
 .hl-mark { left: 0; top: 36.36%; width: 24.14%; height: 63.64%; }
-.hl-think { left: 0; top: 0; width: 100%; height: 100%; }
 .hl-word { left: 28.45%; top: 52.95%; width: 70.69%; height: 38.64%; }
-.hl-dot { fill: var(--ink); }
-.hl-bubble circle { fill: none; stroke: var(--ink); stroke-width: 1.4; }
-.hl-hash { fill: none; stroke: var(--ink); stroke-width: 1.5; stroke-linecap: round; }
-.hl-dot, .hl-bubble { transform-box: fill-box; transform-origin: center; }
-.hl-bubble { transform-origin: 20% 85%; }
 .hero-slogan { margin-top: 34px; font: 400 20px/1.5 var(--serif); letter-spacing: 0.06em; color: var(--muted); }
 .hero-title { margin-top: 14px; font: 700 34px/1.45 var(--serif); letter-spacing: 0.02em; }
 .hero-sub { margin: 14px auto 0; max-width: 560px; color: var(--muted); font-size: 17px; }
 .hero-cta { display: flex; justify-content: center; gap: 12px; margin-top: 38px; flex-wrap: wrap; }
 .hero-note { margin-top: 18px; font-size: 13px; color: var(--faint); letter-spacing: 0.02em; }
 .hero-note span + span::before { content: " · "; }
-/* the app window, with the thinking capybara (and its # bubble) rising from behind its top edge */
+/* the app window, with the capybara (yuzu on its head) peeking up from behind its top edge */
 .hero-stage { position: relative; margin-top: 96px; }
 .hero-stage .peek { position: absolute; right: 7%; bottom: 100%; width: 220px; height: auto; margin-bottom: -64px; z-index: 0; pointer-events: none; }
 .hero-shot { position: relative; z-index: 1; }
 
-/* splash-like intro: the capybara settles, two thought dots rise, the third grows into a # bubble, the wordmark slides in */
+/* splash-like intro: the capybara settles, the wordmark slides in */
 .anim .hl-mark { animation: settle 0.7s var(--ease) 0.15s both; }
-.anim .hl-dot1 { animation: pop 0.25s cubic-bezier(0.34, 1.4, 0.64, 1) 0.55s both; }
-.anim .hl-dot2 { animation: pop 0.25s cubic-bezier(0.34, 1.4, 0.64, 1) 0.72s both; }
-.anim .hl-bubble { animation: grow 0.35s cubic-bezier(0.34, 1.3, 0.64, 1) 0.9s both; }
-.anim .hl-hash { animation: fade 0.25s ease-out 1.1s both; }
 .anim .hl-word { animation: word-in 0.7s var(--ease) 0.85s both; }
 .anim .hero-slogan { animation: rise 0.7s var(--ease) 1.3s both; }
 .anim .hero-title { animation: rise 0.7s var(--ease) 1.4s both; }
@@ -116,8 +106,6 @@ h1, h2, h3 { margin: 0; font-weight: 700; }
 @keyframes fade { from { opacity: 0; } to { opacity: 1; } }
 @keyframes settle { from { opacity: 0; transform: translateY(14px) scale(0.94); } to { opacity: 1; transform: none; } }
 @keyframes word-in { from { opacity: 0; transform: translateX(-14px); filter: blur(3px); } to { opacity: 1; transform: none; filter: blur(0); } }
-@keyframes pop { from { opacity: 0; transform: translate(-2px, 3px) scale(0.2); } to { opacity: 1; transform: none; } }
-@keyframes grow { from { opacity: 0; transform: translate(-4px, 5px) scale(0.22); } 30% { opacity: 1; } to { opacity: 1; transform: none; } }
 @keyframes rise { from { opacity: 0; transform: translateY(10px); } to { opacity: 1; transform: none; } }
 @keyframes peek { from { opacity: 0; transform: translateY(70%); } 25% { opacity: 1; } to { opacity: 1; transform: none; } }
 @keyframes rise-lg { from { opacity: 0; transform: translateY(28px); } to { opacity: 1; transform: none; } }
@@ -271,7 +259,7 @@ code { font: 0.9em var(--mono); background: var(--paper-2); padding: 0.1em 0.35e
 
 @media (prefers-reduced-motion: reduce) {
   html { scroll-behavior: auto; }
-  .anim .hl-mark, .anim .hl-word, .anim .hl-dot, .anim .hl-bubble, .anim .hl-hash, .anim .hero-slogan, .anim .hero-stage .peek, .anim .hero-title, .anim .hero-sub, .anim .hero-cta, .anim .hero-note, .anim .hero-shot {
+  .anim .hl-mark, .anim .hl-word, .anim .hero-slogan, .anim .hero-stage .peek, .anim .hero-title, .anim .hero-sub, .anim .hero-cta, .anim .hero-note, .anim .hero-shot {
     animation: fade 0.4s ease-out both !important;
   }
   .js .reveal { transform: none; transition: opacity 0.4s ease-out; }

diff --git a/docs/assets/brand/src/poster-xhs.html b/docs/assets/brand/src/poster-xhs.html
@@ -15,7 +15,7 @@
   .n { font-size: 22px; color: var(--faint); font-variant-numeric: tabular-nums; letter-spacing: .04em; }
   .t { font-family: var(--font-serif); font-weight: 700; font-size: 32px; }
   .d { grid-column: 2; margin-top: 6px; font-size: 22px; line-height: 1.55; color: var(--muted); }
-  /* hero: the thinking capybara (the app icon's mascot) with its # thought bubble */
+  /* hero: the capybara from the app icon, peeking up with a yuzu on its head */
   .peek { position: absolute; right: 56px; bottom: 96px; width: 440px; }
   .say { position: absolute; left: 88px; bottom: 132px; font-family: var(--font-serif); font-weight: 700; font-size: 30px; line-height: 1.5; }
   .url { position: absolute; left: 88px; bottom: 84px; font-size: 20px; color: var(--muted); letter-spacing: .03em; }

diff --git a/docs/assets/brand/src/contact-sheet.html b/docs/assets/brand/src/contact-sheet.html
@@ -1,5 +1,5 @@
 <!doctype html>
-<!-- Capydown 品牌检查表：单色标志（卡皮巴拉侧面头像）在 16–512 px、浅色 / 深色背景下的可读性，字标、组合标志、应用图标（完整 / 头 + 托腮爪的小尺寸版）、吉祥物（托腮思考的卡皮巴拉）。 -->
+<!-- Capydown 品牌检查表：单色标志（卡皮巴拉正面头像）在 16–512 px、浅色 / 深色背景下的可读性，字标、组合标志、应用图标（完整 / 只留头的小尺寸版）、吉祥物（从底边探出头的卡皮巴拉）。 -->
 <html><head><meta charset="utf-8"><style>
 body{margin:0;font:12px -apple-system,sans-serif;color:#888}
 .band{display:flex;align-items:flex-end;gap:36px;padding:36px 40px}

diff --git a/docs/assets/brand/src/social-preview.html b/docs/assets/brand/src/social-preview.html
@@ -7,7 +7,7 @@
   .lockup { position: absolute; left: 50%; top: 60px; transform: translateX(-50%); height: 46px; }
   h1 { position: absolute; left: 0; right: 0; top: 146px; font-size: 44px; line-height: 1.3; }
   .sub { position: absolute; left: 0; right: 0; top: 218px; font-size: 18px; color: var(--muted); letter-spacing: .02em; }
-  .peek { position: absolute; left: 1150px; bottom: 26px; width: 120px; z-index: 2; } /* thinking just outside the window's right edge */
+  .peek { position: absolute; left: 1150px; bottom: 26px; width: 120px; z-index: 2; } /* peeking up just outside the window's right edge */
   .shot { position: absolute; left: 50%; top: 290px; transform: translateX(-50%); z-index: 1; }
 </style></head>
 <body>

diff --git a/docs/assets/brand/src/banner.html b/docs/assets/brand/src/banner.html
@@ -8,8 +8,8 @@
   .lockup { height: 40px; width: auto; align-self: flex-start; }
   h1 { margin-top: 38px; font-size: 38px; line-height: 1.42; }
   .sub { margin-top: 18px; font-size: 16px; line-height: 1.6; color: var(--muted); }
-  /* the mascot (the thinking capybara, # bubble and all) sits between the copy and the app window */
-  .peek { position: absolute; left: 492px; bottom: 26px; width: 164px; z-index: 2; }
+  /* the mascot (front-facing capybara, yuzu on its head) peeks up between the copy and the app window */
+  .peek { position: absolute; left: 468px; bottom: 26px; width: 164px; z-index: 2; }
   .shot { position: absolute; left: 676px; top: 100px; z-index: 1; }
 </style></head>
 <body>

diff --git a/docs/assets/brand/src/share-card.html b/docs/assets/brand/src/share-card.html
@@ -9,7 +9,7 @@
   h1 { margin-top: 52px; font-size: 46px; line-height: 1.3; white-space: nowrap; }
   .sub { margin-top: 22px; font-size: 18px; line-height: 1.7; color: var(--muted); }
   .foot { position: absolute; left: 700px; bottom: 44px; font-size: 14px; color: var(--muted); letter-spacing: .04em; }
-  /* the thinking capybara sits in the bottom-right corner */
+  /* the capybara peeks up in the bottom-right corner */
   .peek { position: absolute; right: 44px; bottom: 34px; width: 176px; }
   .shot { position: absolute; left: -300px; top: 72px; }
 </style></head>

diff --git a/src/renderer/src/views/Welcome.vue b/src/renderer/src/views/Welcome.vue
@@ -295,7 +295,7 @@ const openInFinder = async (workspace: Workspace) => {
 .lb-welcome-lockup {
   display: inline-flex;
   align-items: center;
-  gap: 10px;
+  gap: 7px; /* 正面头像左右各留约 1/8 的空白，标志和字标的墨迹间距约 13px */
   margin: 0;
   color: var(--lb-fg-strong);
   user-select: none;
